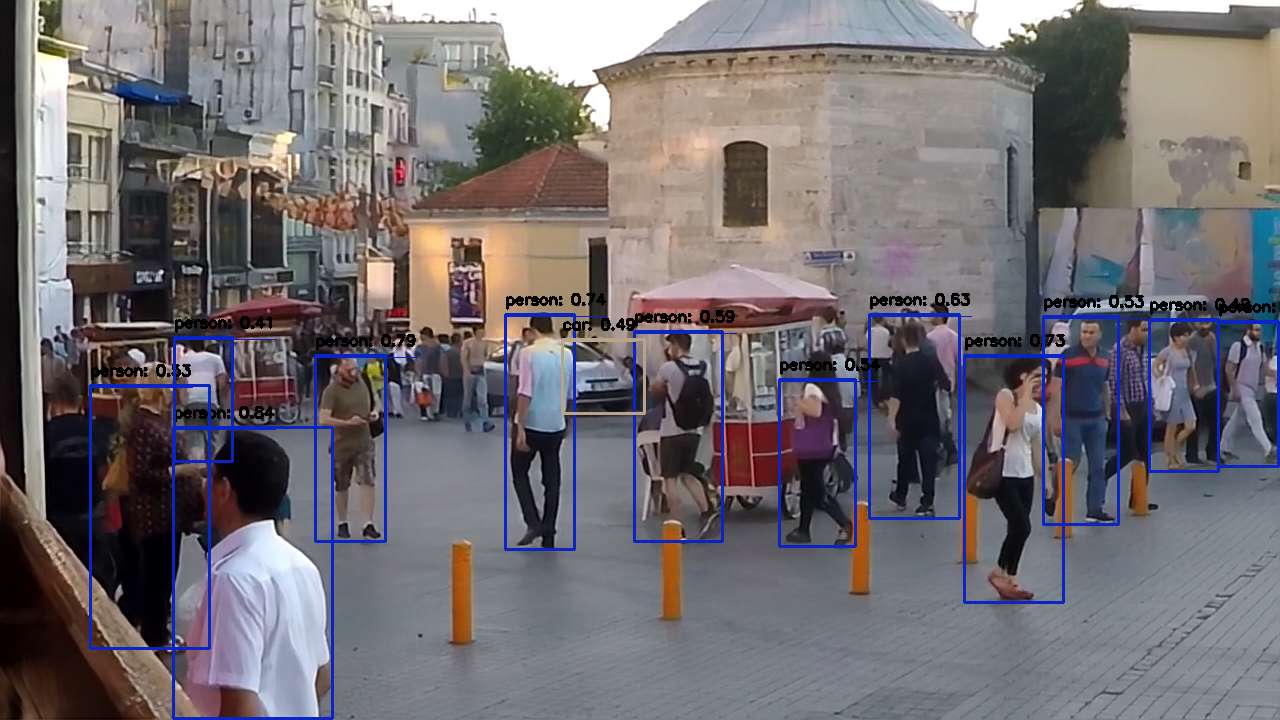
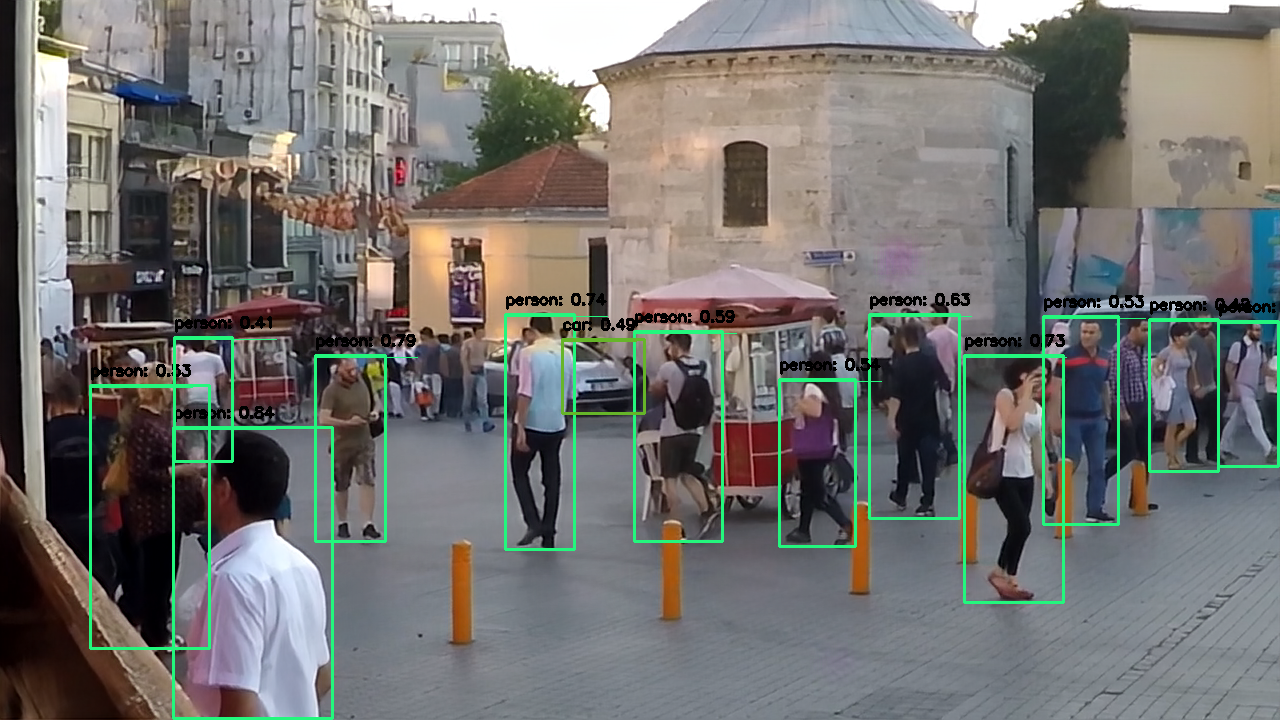
trouble with yolo mnn model

diff --git a/renesas_evh/src/main.cpp b/renesas_evh/src/main.cpp
@@ -10,10 +10,14 @@
 #include <MNN/Interpreter.hpp>
 #include <iostream>
 using namespace MNN;
-#define PAD_H   (736)
-#define PAD_W   (1312)
-#define CHNL (3)
-#define PAD_IMGSIZE (PAD_H*PAD_W*3)
+#define CHNL        (3)
+#define PAD_H       (736)
+#define PAD_W       (1312)
+#define PAD_IMGSIZE (PAD_H*PAD_W*CHNL)
+#define YOLO_H      (640)
+#define YOLO_W      (640)
+#define YOLO_SIZE   (YOLO_H*YOLO_W*CHNL)
+
 int main(){
     BackendConfig backend_config;
     Express::Executor::getGlobalExecutor()->setGlobalExecutorConfig(MNN_FORWARD_CPU,backend_config,4);
@@ -26,7 +30,7 @@ int main(){
     float std[3]={0.5, 0.5, 0.5};
     auto info = rgb->getInfo();
     auto shape = info->dim;
-    auto size = info->size;
+    const auto size = info->size;
     auto ori_format = CV::NHWC;
     auto format = CV::NCHW;
     // std::cout<<"image shape: \n";
@@ -37,11 +41,11 @@ int main(){
 
     // imgarr in NHWC format
     const uint8_t *imgarr = rgb->readMap<uint8_t>();
-    int height = shape[0];
-    int width = shape[1];
-    auto pshape = Express::INTS({height,width,CHNL});
-    auto ori_padshape = Express::INTS({PAD_H,PAD_W,CHNL});  // in NHWC format
-    auto padshape = Express::INTS({CHNL,PAD_H,PAD_W});      // in NCHW format
+    const int height = shape[0];
+    const int width = shape[1];
+    const auto pshape = Express::INTS({height,width,CHNL});
+    const auto ori_padshape = Express::INTS({PAD_H,PAD_W,CHNL});  // in NHWC format
+    const auto padshape = Express::INTS({CHNL,PAD_H,PAD_W});      // in NCHW format
     float *pc = new float[PAD_IMGSIZE];
 
     // padding with 0 -> (H = 736, W = 1312, C = 3)
@@ -79,7 +83,6 @@ int main(){
     auto imgvarc = CV::_Const(pc,padshape,format,halide_type_of<float>());
     Express::VARP crgb = frgb*imgvarc;
     
-    
     // // img /= 255.0f
     for(size_t i=0;i<PAD_IMGSIZE;i++) pc[i] = 255.0f;
     auto imgvard = CV::_Const(pc,padshape,format,halide_type_of<float>());
@@ -98,26 +101,26 @@ int main(){
     // Deblur
     // load model
     const std::string FPN_file = "../FPNInception_736_1312.mnn";
-    const std::vector<std::string> input_names{"input.1"};
-    const std::vector<std::string> output_names{"3695"};    // rediculous output name! (look it up on NETRON)
-    Express::Module::Config mdconfig;
-    std::unique_ptr<Express::Module> module;
-    module.reset(Express::Module::load(input_names,output_names,FPN_file.c_str(),nullptr,&mdconfig));
-    std::vector<Express::VARP> inputs(1);
-    inputs[0] = exp_rgb;
-    std::vector<Express::VARP> outputs = module->onForward(inputs);
-    auto deblur_imgshape = outputs[0]->getInfo()->dim;
-    for(auto &dsize:deblur_imgshape) std::cout<<dsize<<' ';
-    std::cout<<'\n';
+    const std::vector<std::string> fpn_input_names{"input.1"};
+    const std::vector<std::string> fpn_output_names{"3695"};    // rediculous output name! (look it up on NETRON)
+    Express::Module::Config fpn_mdconfig;
+    std::unique_ptr<Express::Module> fpn_module;
+    fpn_module.reset(Express::Module::load(fpn_input_names,fpn_output_names,FPN_file.c_str(),nullptr,&fpn_mdconfig));
+    std::vector<Express::VARP> fpn_inputs(1);
+    fpn_inputs[0] = exp_rgb;
+    std::vector<Express::VARP> fpn_outputs = fpn_module->onForward(fpn_inputs);
+    auto deblur_imgshape = fpn_outputs[0]->getInfo()->dim;
     
-    auto deblur_rgb = Express::_Squeeze(outputs[0],{0});
+    auto deblur_rgb = Express::_Squeeze(fpn_outputs[0],{0});
     auto deblur_fpimg = deblur_rgb->readMap<float>();
 
     uint8_t *deblur_uimg = new uint8_t[PAD_IMGSIZE];
+    uint8_t *yolo_preinput = new uint8_t[size];
     for(size_t h=0;h<PAD_H;h++){  
         for(size_t w=0;w<PAD_W;w++){  
             for(size_t c=0;c<3;c++){
                 deblur_uimg[((h*PAD_W)+w)*CHNL+c] = (deblur_fpimg[((c*PAD_H)+h)*PAD_W+w]+1.0f)/2.0f*255.0f;
+                if(h<height && w<width) yolo_preinput[((h*width)+w)*CHNL+c] = (deblur_fpimg[((c*PAD_H)+h)*PAD_W+w]+1.0f)/2.0f*255.0f;
                 // deblur_uimg[((c*PAD_H)+h)*PAD_W+w] = (deblur_fpimg[((c*PAD_H)+h)*PAD_W+w]+1)/2.0*255;
             }
         }
@@ -128,7 +131,40 @@ int main(){
     else std::cout<<"write deblur img fail\n";   
     free(deblur_uimg);
     // DON'T FORGET PERMUTATION!!!
-   
-
+    
+    auto yolo_rgb = CV::_Const(yolo_preinput,pshape,ori_format,halide_type_of<uint8_t>());
+    yolo_rgb = CV::cvtColor(yolo_rgb,CV::COLOR_BGR2RGB);
+    CV::Size_<int> yolo_rgb_size_(640,640);
+    CV::Size yolo_rgb_size(yolo_rgb_size_);
+    yolo_rgb = CV::resize(yolo_rgb,yolo_rgb_size);
+    auto resize_shape = yolo_rgb->getInfo()->dim;
+    for(auto &dsize:resize_shape) std::cout<<dsize<<' ';
+    std::cout<<'\n';
+    auto yolo_img = yolo_rgb->readMap<uint8_t>();
+    float *yolo_input_hwc = new float[YOLO_SIZE];
+    for(size_t i=0;i<YOLO_SIZE;i++) yolo_input_hwc[i]=yolo_img[i] / 255.0f;
+    float *yolo_input_chw = new float[YOLO_SIZE];
+    for(size_t c=0;c<CHNL;c++){
+        for(size_t h=0;h<YOLO_H;h++){
+            for(size_t w=0;w<YOLO_W;w++){
+                yolo_input_chw[((c*YOLO_H)+h)*YOLO_W+w] = yolo_input_hwc[((h*YOLO_W)+w)*CHNL+c];
+            }
+        }
+    }
+    auto yolo_input_rgb = Express::_Const(yolo_input_chw,{CHNL,YOLO_H,YOLO_W},format,halide_type_of<uint8_t>());
+    auto yolo_final_input_rgb = Express::_ExpandDims(yolo_input_rgb,0);
+    const std::string YOLO_file = "../yolo11n.mnn";
+    const std::vector<std::string> yolo_input_names{"images"};
+    const std::vector<std::string> yolo_output_names{"output0"};
+    Express::Module::Config yolo_mdconfig;
+    std::unique_ptr<Express::Module> yolo_module;
+    yolo_module.reset(Express::Module::load(yolo_input_names,yolo_output_names,YOLO_file.c_str(),nullptr,&yolo_mdconfig));
+    std::vector<Express::VARP> yolo_inputs(1);
+    yolo_inputs[0] = yolo_final_input_rgb;
+    std::vector<Express::VARP> yolo_outputs = yolo_module->onForward(yolo_inputs);
+    std::cout<<"yolo outputs size "<<yolo_outputs.size();
+    free(yolo_input_chw);
+    free(yolo_input_hwc);    
+    free(yolo_preinput);
     return 0;
 }

diff --git a/Debluring/Deblure2e/GANyolo.py b/Debluring/Deblure2e/GANyolo.py
@@ -117,62 +117,62 @@ if __name__ == '__main__':
             # # fpn postprocess
             output,  = outputs
             d_imgnp = output[0]
-            print(d_imgnp[0][0][0:6])
             d_imgnp = (np.transpose(d_imgnp,(1,2,0)) + 1) / 2.0 * 255.0
             d_imgnp = d_imgnp.astype(np.uint8)
             d_img = cv2.cvtColor(d_imgnp,cv2.COLOR_RGB2BGR)[:img_h,:img_w,:]
             cv2.imwrite(os.path.join(deblur_out_dir,name),d_img)
 
-            # # yolo preprocess
-            # h,w,_ = d_img.shape
-            # p_img = cv2.cvtColor(d_img,cv2.COLOR_BGR2RGB)
-            # p_img = cv2.resize(p_img,(640,640))
-            # p_imgnp = np.array(p_img) / 255.0
-            # p_imgnp = np.transpose(p_imgnp,(2,0,1))
-            # p_imgnp = np.expand_dims(p_imgnp,axis=0).astype(np.float32)
+            # yolo preprocess
+            h,w,_ = d_img.shape
+            p_img = cv2.cvtColor(d_img,cv2.COLOR_BGR2RGB)
+            p_img = cv2.resize(p_img,(640,640))
+            p_imgnp = np.array(p_img) / 255.0
+            p_imgnp = np.transpose(p_imgnp,(2,0,1))
+            p_imgnp = np.expand_dims(p_imgnp,axis=0).astype(np.float32)
+            print(p_imgnp.shape)
 
-            # yolo_cess = ort.InferenceSession(yolo_path)
-            # outputs = yolo_cess.run(None,{'images': p_imgnp})
+            yolo_cess = ort.InferenceSession(yolo_path)
+            outputs = yolo_cess.run(None,{'images': p_imgnp})
             
 
-            # # yolo postprocess
-            # output = np.transpose(np.squeeze(outputs[0]))
-            # rows = output.shape[0]
+            # yolo postprocess
+            output = np.transpose(np.squeeze(outputs[0]))
+            rows = output.shape[0]
 
-            # thrshld = 0.4
-            # iou_thrshld = 0.5
-            # boxes = []
-            # scores = []
-            # class_ids = []
+            thrshld = 0.4
+            iou_thrshld = 0.5
+            boxes = []
+            scores = []
+            class_ids = []
 
-            # x_fac = img_w / 640
-            # y_fac = img_h / 640
+            x_fac = img_w / 640
+            y_fac = img_h / 640
 
-            # for i in range(rows):
-            #     classes_scores = output[i][4:]
-            #     max_score = np.amax(classes_scores)
-            #     if max_score >= thrshld:
-            #         class_id = np.argmax(classes_scores)
-            #         x,y,w,h = output[i][0], output[i][1], output[i][2], output[i][3]
+            for i in range(rows):
+                classes_scores = output[i][4:]
+                max_score = np.amax(classes_scores)
+                if max_score >= thrshld:
+                    class_id = np.argmax(classes_scores)
+                    x,y,w,h = output[i][0], output[i][1], output[i][2], output[i][3]
 
-            #         left = int((x-w/2)*x_fac)
-            #         top = int((y-h/2)*y_fac)
-            #         width = int(w*x_fac)
-            #         height = int(h*y_fac)
+                    left = int((x-w/2)*x_fac)
+                    top = int((y-h/2)*y_fac)
+                    width = int(w*x_fac)
+                    height = int(h*y_fac)
 
-            #         class_ids.append(class_id)
-            #         scores.append(max_score)
-            #         boxes.append([left,top,width,height])
+                    class_ids.append(class_id)
+                    scores.append(max_score)
+                    boxes.append([left,top,width,height])
 
-            # indices = cv2.dnn.NMSBoxes(boxes,scores,thrshld,iou_thrshld)
-            # for i in indices:
-            #     box = boxes[i]
-            #     score = scores[i]
-            #     class_id = class_ids[i]
-            #     # print(yolo_processor.name_classes[class_id])
-            #     yolo_processor.draw_detections(d_img,box,score,class_id)
+            indices = cv2.dnn.NMSBoxes(boxes,scores,thrshld,iou_thrshld)
+            for i in indices:
+                box = boxes[i]
+                score = scores[i]
+                class_id = class_ids[i]
+                # print(yolo_processor.name_classes[class_id])
+                yolo_processor.draw_detections(d_img,box,score,class_id)
 
-            # cv2.imwrite(os.path.join(final_out_dir,name),d_img)
+            cv2.imwrite(os.path.join(final_out_dir,name),d_img)
 
             
 
